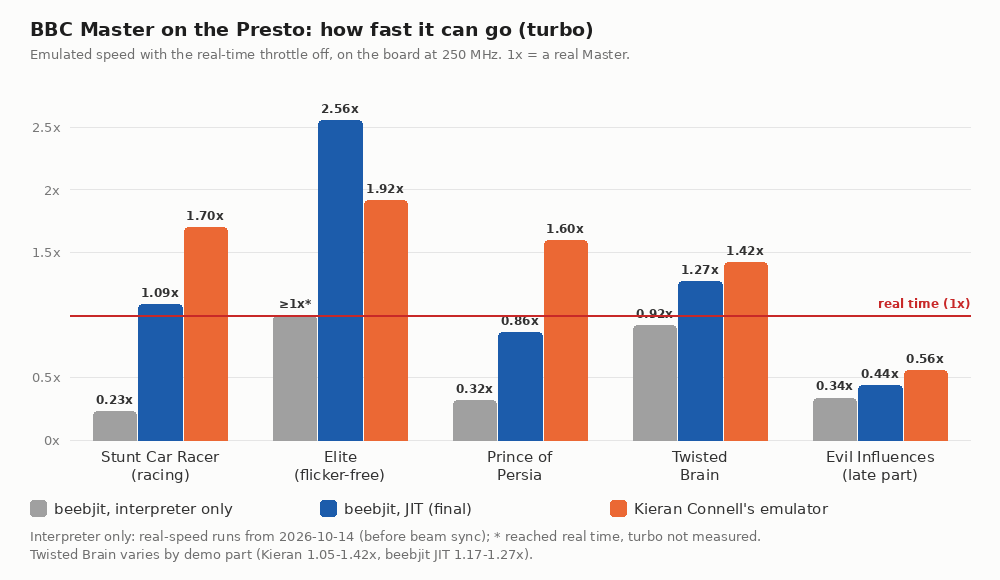
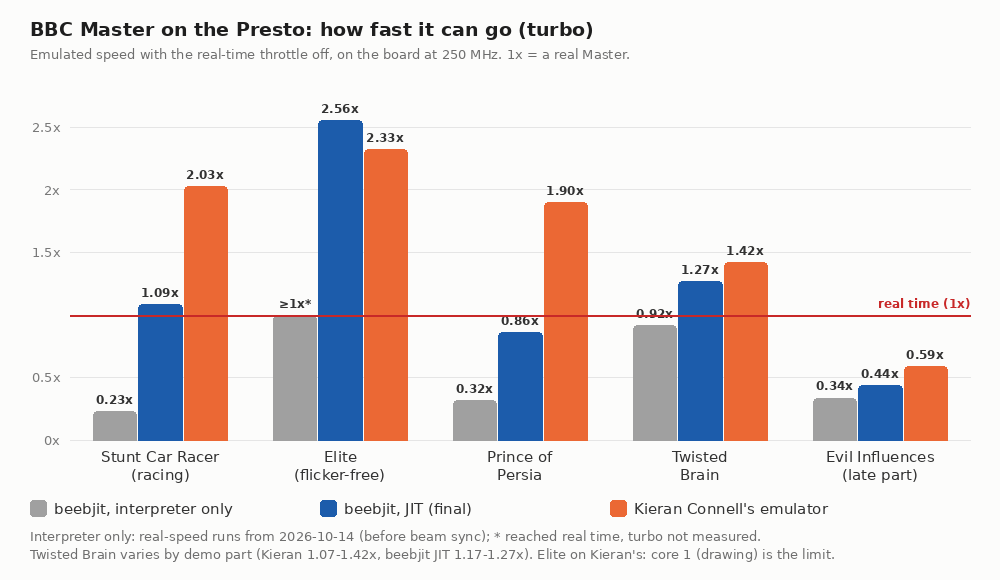
Core: no hang after 35.8 minutes; faster CPU fields; core 1 counted in turbo
Two changes to Kieran's core, each giving identical pictures on all five
discs: the VIA tick count no longer shifts the absolute cycle count (it
hung the board when the 32-bit count wrapped), and the CPU's registers and
flags are 32-bit fields. On the board: core 0 down ~10 points at real
speed, turbo Stunt Car 2.03x, Elite 2.33x, PoP 1.90x; Evil 59%. PoP ran
52 emulated minutes in turbo. README and turbo graph updated.

diff --git a/core/cpu6502.c b/core/cpu6502.c
@@ -140,12 +140,12 @@ INLINE void idle(struct cpu6502 *cpu)
 INLINE void push(struct cpu6502 *cpu, uint8_t v)
 {
     wr_cycle(cpu, 0x100 | cpu->s, v, 0);
-    cpu->s--;
+    cpu->s = (cpu->s - 1) & 0xff;
 }
 
 INLINE uint8_t pull(struct cpu6502 *cpu)
 {
-    cpu->s++;
+    cpu->s = (cpu->s + 1) & 0xff;
     return rd(cpu, 0x100 | cpu->s);
 }
 
@@ -925,12 +925,12 @@ uint64_t CPU6502_FN(cpu6502_run)(struct cpu6502 *cpu_in, uint64_t until)
         OPC(d6) RMW(am_zpi(cpu, cpu->x), op_dec); NEXT;
         OPC(ce) RMW(am_abs(cpu), op_dec); NEXT;
         OPC(de) RMW(am_absx_rmw(cpu, 0), op_dec); NEXT;
-        OPC(e8) (void)rd(cpu, cpu->pc); set_nz(cpu, ++cpu->x); NEXT;
-        OPC(ca) (void)rd(cpu, cpu->pc); set_nz(cpu, --cpu->x); NEXT;
-        OPC(c8) (void)rd(cpu, cpu->pc); set_nz(cpu, ++cpu->y); NEXT;
-        OPC(88) (void)rd(cpu, cpu->pc); set_nz(cpu, --cpu->y); NEXT;
-        OPC(1a) (void)rd(cpu, cpu->pc); set_nz(cpu, ++cpu->a); NEXT;
-        OPC(3a) (void)rd(cpu, cpu->pc); set_nz(cpu, --cpu->a); NEXT;
+        OPC(e8) (void)rd(cpu, cpu->pc); set_nz(cpu, cpu->x = (cpu->x + 1) & 0xff); NEXT;
+        OPC(ca) (void)rd(cpu, cpu->pc); set_nz(cpu, cpu->x = (cpu->x - 1) & 0xff); NEXT;
+        OPC(c8) (void)rd(cpu, cpu->pc); set_nz(cpu, cpu->y = (cpu->y + 1) & 0xff); NEXT;
+        OPC(88) (void)rd(cpu, cpu->pc); set_nz(cpu, cpu->y = (cpu->y - 1) & 0xff); NEXT;
+        OPC(1a) (void)rd(cpu, cpu->pc); set_nz(cpu, cpu->a = (cpu->a + 1) & 0xff); NEXT;
+        OPC(3a) (void)rd(cpu, cpu->pc); set_nz(cpu, cpu->a = (cpu->a - 1) & 0xff); NEXT;
 
         // ---- flags ----
         OPC(18) (void)rd(cpu, cpu->pc); cpu->c = 0; NEXT;

diff --git a/core/cpu6502.h b/core/cpu6502.h
@@ -26,10 +26,12 @@
 
 struct cpu6502 {
     uint16_t pc;
-    uint8_t a, x, y, s;
+    // Kept 32 bits wide (always 0-255): byte fields cost a bit-field insert
+    // at every write on the M33.
+    uint32_t a, x, y, s;
     // Flags kept unpacked. n holds bit 7 only (0 or 0x80), the rest are 0/1.
-    uint8_t n, z, c, v, i, d;
-    uint8_t cmos;  // 1: 65C12 (Master), 0: NMOS 6502 (Model B)
+    uint32_t n, z, c, v, i, d;
+    uint32_t cmos;  // 1: 65C12 (Master), 0: NMOS 6502 (Model B)
     // Interrupts. irq_hist holds one bit per cycle, newest in bit 0, of the
     // IRQ line level after that cycle; the machine appends to it when it
     // catches up (CPU6502_SYNC). nmi_pending is set by the machine on the
@@ -38,12 +40,12 @@ struct cpu6502 {
     // penultimate cycle) and I was clear at the instruction start (RTI: as
     // pulled); i_poll is that I value (the one-cycle NOPs set it, as they
     // are not polled).
-    uint8_t irq_line;
-    uint8_t nmi_pending;
+    uint32_t irq_line;
+    uint32_t nmi_pending;
     uint32_t nmi_cycle;   // cycle the NMI edge was latched on
     uint32_t stretch;     // 1 MHz stretch cycles in the current instruction
     uint32_t irq_hist;    // as of last_sync: the line has been irq_line since
-    uint8_t i_poll;
+    uint32_t i_poll;
     // Cycle count at which the machine next has an event that can change
     // the IRQ line or needs exact ordering; until then the instruction
     // boundary needs no catch-up and the history is just the current level

diff --git a/core/machine.c b/core/machine.c
@@ -734,7 +734,9 @@ static MACHINE_NOINLINE uint32_t machine_advance_ex(struct machine *m, uint32_t 
         // VIAs over `done` cycles; the event tick, if this chunk ends on
         // it, is stepped exactly.
         if (!(skip & 2)) {
-            uint32_t k = ((s + done + 1) >> 1) - ((s + 1) >> 1);
+            // 1 MHz ticks (odd cycles) in s+1 .. s+done, without shifting the
+            // absolute count: that broke when it wrapped at 2^32 (35.8 minutes)
+            uint32_t k = (done + ((s + 1) & 1)) >> 1;
             uint64_t v0 = MACHINE_CYCLES();
             (void)v0;
             if (done == via_e) {
@@ -1053,7 +1055,7 @@ INLINE int io_quiet_window(struct machine *m, uint32_t end, uint32_t *mask, uint
     }
     uint32_t s = m->synced;
     uint32_t w = end - s;
-    uint32_t k = ((end + 1) >> 1) - ((s + 1) >> 1);
+    uint32_t k = (w + ((s + 1) & 1)) >> 1;   // wrap-safe, as in machine_advance_ex
     via_advance(&m->sysvia, k);
     via_advance(&m->usrvia, k);
     m->synced = end;

diff --git a/presto/render_unit.c b/presto/render_unit.c
@@ -148,11 +148,14 @@ void panel_init(void)
 void panel_consume(struct vstream *vs)
 {
     struct render *r = &s_render;
-    while (vs_available(vs) > 0) {
+    // Only what is there now, so that a producer that keeps the ring full
+    // (turbo) still lets the caller count core 1's busy time.
+    uint32_t end = vs->head;
+    while ((int32_t)(end - vs->tail) > 0) {
         uint16_t w = vs->ring[vs->tail & (VS_RING - 1)];
         if (!(w & VS_EVENT)) {
             int n = 0;
-            int avail = vs_available(vs);
+            int avail = (int)(end - vs->tail);
             while (n < avail && !(vs->ring[(vs->tail + n) & (VS_RING - 1)] & VS_EVENT)) {
                 n++;
             }

diff --git a/presto/panel.h b/presto/panel.h
@@ -9,7 +9,7 @@
 void panel_lcd_init(void);
 // The renderer's power-on state.
 void panel_init(void);
-// Core 1: renders everything in the stream so far.
+// Core 1: renders what is in the stream now (not what arrives meanwhile).
 void panel_consume(struct vstream *vs);
 // Core 0: writes "SHOT 480 480" and the panel's rows as RGB565 to stdout (as
 // they are, so a row core 1 is drawing may be half new).

diff --git a/README.md b/README.md
@@ -27,15 +27,15 @@ same run with the throttle off, so it shows how much headroom is left.
 
 | Disc | What makes it hard | Speed | Turbo | Core 0 / core 1 at real speed |
 |---|---|---|---|---|
-| Stunt Car Racer, racing | 3D, sideways-RAM bank calls thousands of times a second | 100% | 1.70× | 57% / 37% |
-| Elite (flicker-free, Master) | shadow RAM switched around every line it plots | 100% | 1.92× | 50% / 42% |
-| Prince of Persia | big sideways-RAM game, display tricks through the CRTC | 100% | 1.60× | 61% / 39% |
-| Twisted Brain (demo) | per-scanline raster effects | 100% | 1.05–1.42× (varies by part) | 65% / 42% |
-| Evil Influences (demo), late part | ~1,000 CRTC writes a frame | **56%** | — | 98% / 76% |
+| Stunt Car Racer, racing | 3D, sideways-RAM bank calls thousands of times a second | 100% | 2.03× | 47% / 37% |
+| Elite (flicker-free, Master) | shadow RAM switched around every line it plots | 100% | 2.33× (core 1 is the limit) | 39% / 42% |
+| Prince of Persia | big sideways-RAM game, display tricks through the CRTC | 100% | 1.90× | 50% / 39% |
+| Twisted Brain (demo) | per-scanline raster effects | 100% | 1.07–1.42× (varies by part) | 54% / 42% |
+| Evil Influences (demo), late part | ~1,000 CRTC writes a frame | **59%** | — | 98% / 80% |
 
 - **Four of the five run in real time with room to spare.** The fifth, the late part of Evil
   Influences, reprograms the 6845 CRTC about a thousand times a frame in mini-frames a few
-  scanlines tall. It runs at 56% of real speed here. The emulator doesn't keep up there on the hardware it
+  scanlines tall. It runs at 59% of real speed here. The emulator doesn't keep up there on the hardware it
   was written for either.
 - **About 160 KB of the 520 KB of SRAM is free.** That's room for sound, a disc menu, or an SD
   card, without taking anything out.
@@ -52,10 +52,18 @@ same run with the throttle off, so it shows how much headroom is left.
 - **Memory:** the hot code, the CPU's tables, MOS and DFS in SRAM. The other ROMs, sideways RAM
   and the disc's track data in PSRAM. The disc image itself in flash.
 
-`core/` is Kieran's core, unmodified, from
-[his commit ca72230](https://github.com/kieranhj/esp32-beeb/tree/ca72230). `presto/` is the port:
-`main.c` (pacing, USB, stats), `machine_unit.c` and `render_unit.c` (the two halves, built to
-run from SRAM), and the panel and PSRAM drivers.
+`core/` is Kieran's core from [his commit ca72230](https://github.com/kieranhj/esp32-beeb/tree/ca72230),
+with two changes, each checked to give identical pictures on all five discs:
+
+- **A hang after 35.8 minutes fixed.** Two places counted the VIAs' 1 MHz ticks by shifting the
+  absolute cycle count, which went wrong when the 32-bit count wrapped at 2^32 cycles. They now
+  count from the chunk length. (`machine.c`)
+- **The CPU's registers and flags kept as 32-bit fields.** Byte-sized fields cost the M33 a
+  bit-field insert at every write. This took core 0's load at real speed down by about 10 points
+  on every disc, and turbo up by about a fifth. (`cpu6502.h`, `cpu6502.c`)
+
+`presto/` is the port: `main.c` (pacing, USB, stats), `machine_unit.c` and `render_unit.c` (the
+two halves, built to run from SRAM), and the panel and PSRAM drivers.
 
 ## Build and flash
 
@@ -110,12 +118,10 @@ them in upstream beebjit (decimal mode after SED/PLP in a JIT block).
   interpreter callbacks, and video timing on core 0. The beebjit Master build had 29 KB of
   SRAM free, so every further speed-up had to take something else out first.
 
-Kieran's emulator, ported in an afternoon, was faster on four of the five discs straight away,
-with five times the free SRAM. Flat out (turbo), with the line at real time:
+Kieran's emulator, ported in an afternoon and still unmodified, was faster on four of the five
+discs straight away, with five times the free SRAM:
 
-![turbo: beebjit vs Kieran Connell's emulator](docs/turbo-compare.png)
-
-| Disc | beebjit Master: speed / turbo | Kieran Connell's emulator: speed / turbo |
+| Disc | beebjit Master: speed / turbo | Kieran Connell's emulator as first ported: speed / turbo |
 |---|---|---|
 | Stunt Car Racer, racing | 100% / 1.09× | 100% / **1.70×** |
 | Elite | 100% / **2.56×** | 100% / 1.92× |
@@ -123,6 +129,11 @@ with five times the free SRAM. Flat out (turbo), with the line at real time:
 | Twisted Brain | 100% / 1.17–1.27× | 100% / **1.05–1.42×** |
 | Evil Influences, late part | 44% | **56%** |
 | SRAM free | 29 KB | **~160 KB** |
+
+Flat out (turbo) as it is now, with the two changes above, against beebjit (the line is real
+time):
+
+![turbo: beebjit vs Kieran Connell's emulator](docs/turbo-compare.png)
 
 **Why we stopped:** the JIT pays off when a program runs the same code for a long time in
 memory that stays put. That's most Model B software, which is why `main` stays on beebjit. Master
